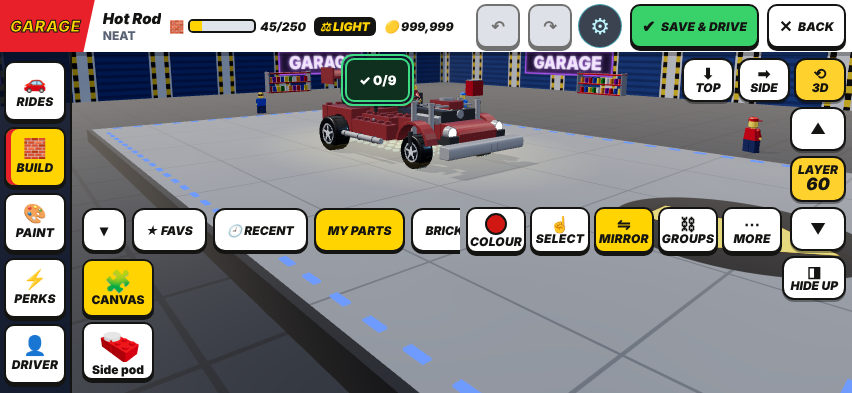
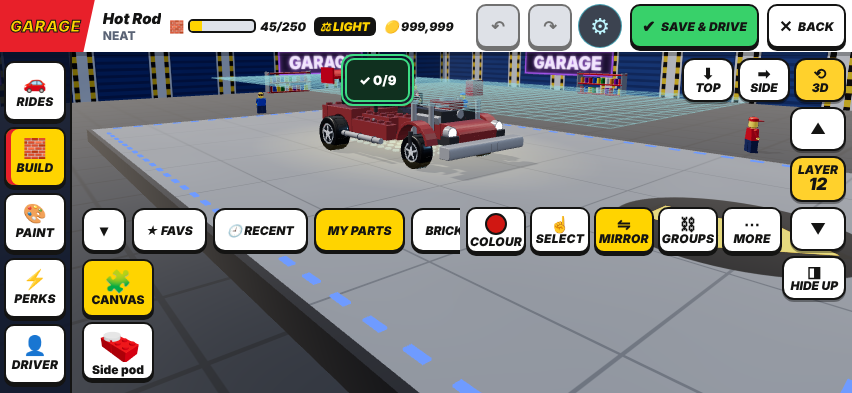
v88y fix 4: the layer view follows the attached part so its ghost shows on the car
Claude-Session: https://claude.ai/code/session_014eWNWXqSL4HaXSnWR9Cap7

diff --git a/src/98pa_garage_parts.js b/src/98pa_garage_parts.js
@@ -134,9 +134,11 @@ function PA_append(id){const p=PA_get().find(o=>o.id===id);if(!p||!GB_.bk)return
  const B=p.b.filter(b=>GB_PC[b.t]).map(b=>({...b}));if(!B.length)return 0;if(GB_list().length+B.length>GB_MAX){GB_msg('Brick budget full · '+GB_MAX);GX_sfx('bump');return 0}
  const A=B[0],W=Math.max(...B.map(b=>b.x+GB_dims(b)[0])),D=Math.max(...B.map(b=>b.z+GB_dims(b)[1]));
  SL.carry={parts:B.map(o=>({...o,dx:o.x-A.x,dz:o.z-A.z,dy:o.y-A.y})),copy:1,snap:JSON.stringify(GB_list()),x:0,z:0,y:0,bad:0,ap:p.id,gxN:p.n};PA.mir=GB_.mir;
- SL_fitAt(A.x-Math.floor(W/2),A.z-Math.floor(D/2),null);GX_sfx('pick');GS_tip(p.n+' · tap where it goes, ⟳ turns it, ✔ PLACE'+(GB_.mir?' · ⇋ mirror on':''));SL_ui();GX_ui();return 1}
+ SL_fitAt(A.x-Math.floor(W/2),A.z-Math.floor(D/2),null);PA_lay();GX_sfx('pick');GS_tip(p.n+' · tap where it goes, ⟳ turns it, ✔ PLACE'+(GB_.mir?' · ⇋ mirror on':''));SL_ui();GX_ui();return 1}
+// the layer view follows the carried part, so its ghost is never hidden in the see-through layers above the active one (review v88y)
+function PA_lay(){try{const C=SL.carry;if(C&&B25.on&&B25.L!=null&&C.y>B25.L)B25_set(C.y)}catch(e){}}
 // mirror twins of an appended part (only when it sits off the centre line and the other side has room)
-SL_fitAt=(f=>function(x,z,y){const C=SL.carry;if(!C||!C.ap)return f.apply(this,arguments);C.parts=C.parts.filter(p=>!p.tw);const r=f.apply(this,arguments);PA_twins();return r})(SL_fitAt);
+SL_fitAt=(f=>function(x,z,y){const C=SL.carry;if(!C||!C.ap)return f.apply(this,arguments);C.parts=C.parts.filter(p=>!p.tw);const r=f.apply(this,arguments);PA_twins();PA_lay();return r})(SL_fitAt);
 function PA_twins(){const C=SL.carry;if(!C)return;C.parts=C.parts.filter(p=>!p.tw);C.tw=0;if(GB_.mir){const B=SL_at(C,C.x,C.z,C.y),T=B.map(GB_twin),L=GB_list();
   if(!T.some(w=>B.some(o=>PA_ov3(w,o)))&&!T.some(w=>SL_clash(w,L))&&L.length+B.length*2<=GB_MAX){for(const w of T)C.parts.push({t:w.t,r:w.r,m:w.m,c:w.c,tw:1,dx:w.x-C.x,dz:w.z-C.z,dy:w.y-C.y});C.tw=1}}
  C.bad=!SL_ok(SL_at(C,C.x,C.z,C.y));SL_ghost()}

diff --git a/t4/g12quick.js b/t4/g12quick.js
@@ -13,7 +13,7 @@ const {chromium}=require('/opt/node22/lib/node_modules/playwright');const U=proc
  await ev(()=>localStorage.setItem('mho_parts',JSON.stringify([{id:'pq1',n:'Side pod',b:[{t:'b22',x:0,z:0,y:0,r:0,m:0,c:0},{t:'b22',x:0,z:2,y:0,r:0,m:0,c:0},{t:'rt22',x:0,z:0,y:3,r:0,m:0,c:9}]}])));
  await tap('#gbMenuBtn');await pg.waitForTimeout(1500);await tap('#r2R [data-r2m="build"]');await pg.waitForTimeout(2500);
  await tap('#gbBkP [data-r2b="sel"]');await ev(()=>__g9ev('B25_set(60)'));await pg.waitForTimeout(600);const C=await ev(()=>__gx.cand());console.log('cand',JSON.stringify(C.slice(0,3)));for(const c of C.slice(0,1))await tapXY(c.x,c.y);console.log('sel',await ev(()=>__sl.sel().length),await ev(()=>__gb.GB_.tool));await shot('q1_select_bar');
- await ev(()=>__g9ev('SL_set([]);GB_.tool="add";GB_ui()'));await tap('#gxCh [data-gxc="My parts"]');await tap('#gbBkPc .paC[data-pa="pq1"]');console.log('carry',JSON.stringify(await ev(()=>__pa.carry())));
- const s=await ev(()=>__gb.scr(3,0));if(s)await tapXY(s.x,s.y);console.log('carry2',JSON.stringify(await ev(()=>__pa.carry())));await shot('q2_held_pad');await tap('#gsBar [data-g="cancel"]');
+ await ev(()=>__g9ev('SL_set([]);GB_.tool="add";GB_ui()'));await ev(()=>__g9ev('B25_set(6)'));await tap('#gxCh [data-gxc="My parts"]');await tap('#gbBkPc .paC[data-pa="pq1"]');console.log('carry',JSON.stringify(await ev(()=>__pa.carry())));
+ const s=await ev(()=>__gb.scr(3,0));if(s)await tapXY(s.x,s.y);console.log('carry2',JSON.stringify(await ev(()=>__pa.carry())),'layer',await ev(()=>__g9ev('B25.L')));await shot('q2_held_pad');await tap('#gsBar [data-g="cancel"]');
  await tap('#odPin [data-p="exp"]');await pg.waitForTimeout(800);if(await p.$('#odChk:not([hidden]), .odChk'))console.log('full checklist opened');await ev(()=>{const c=document.querySelector('#odChk [data-x="close"],#odChk .x');if(c)c.click()});
  await shot('q3_pin_build');console.log('ERR',JSON.stringify(errs.filter(e=>!/GPU stall|GL Driver/.test(e)).slice(0,6)));await b.close()})();
